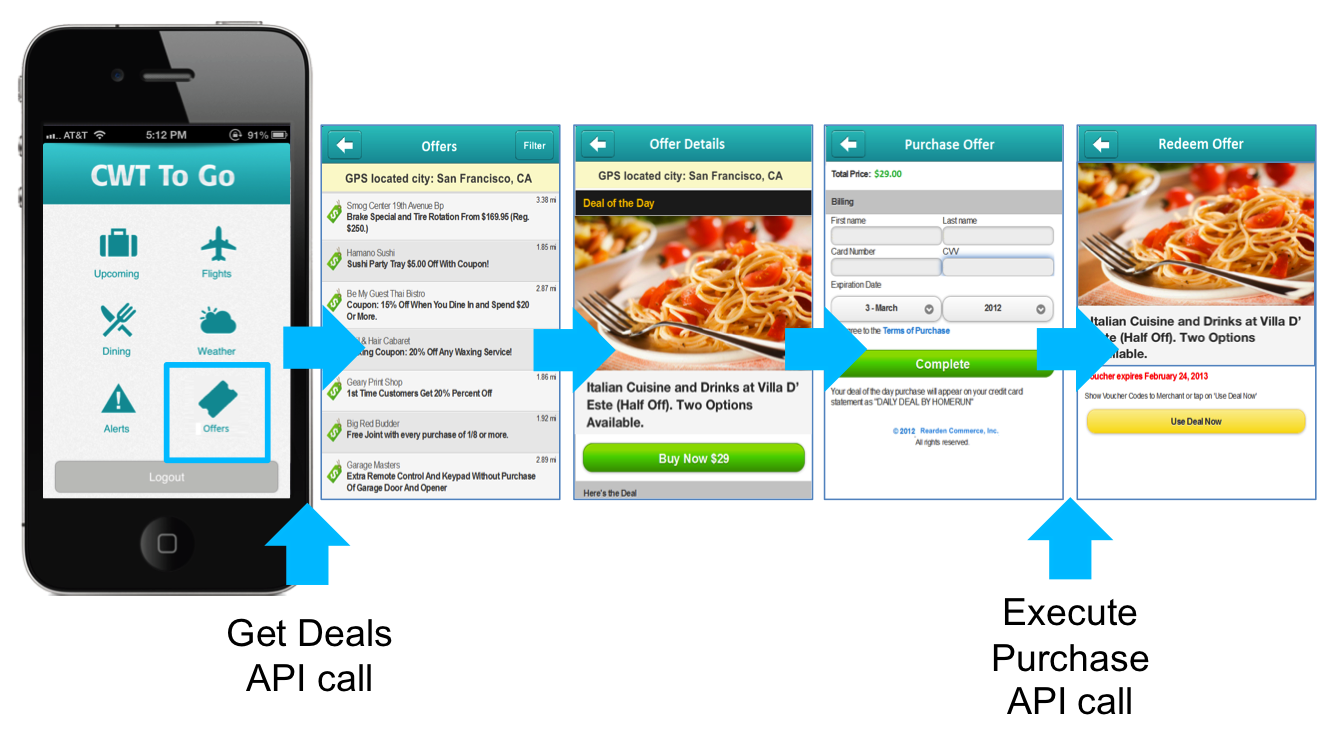
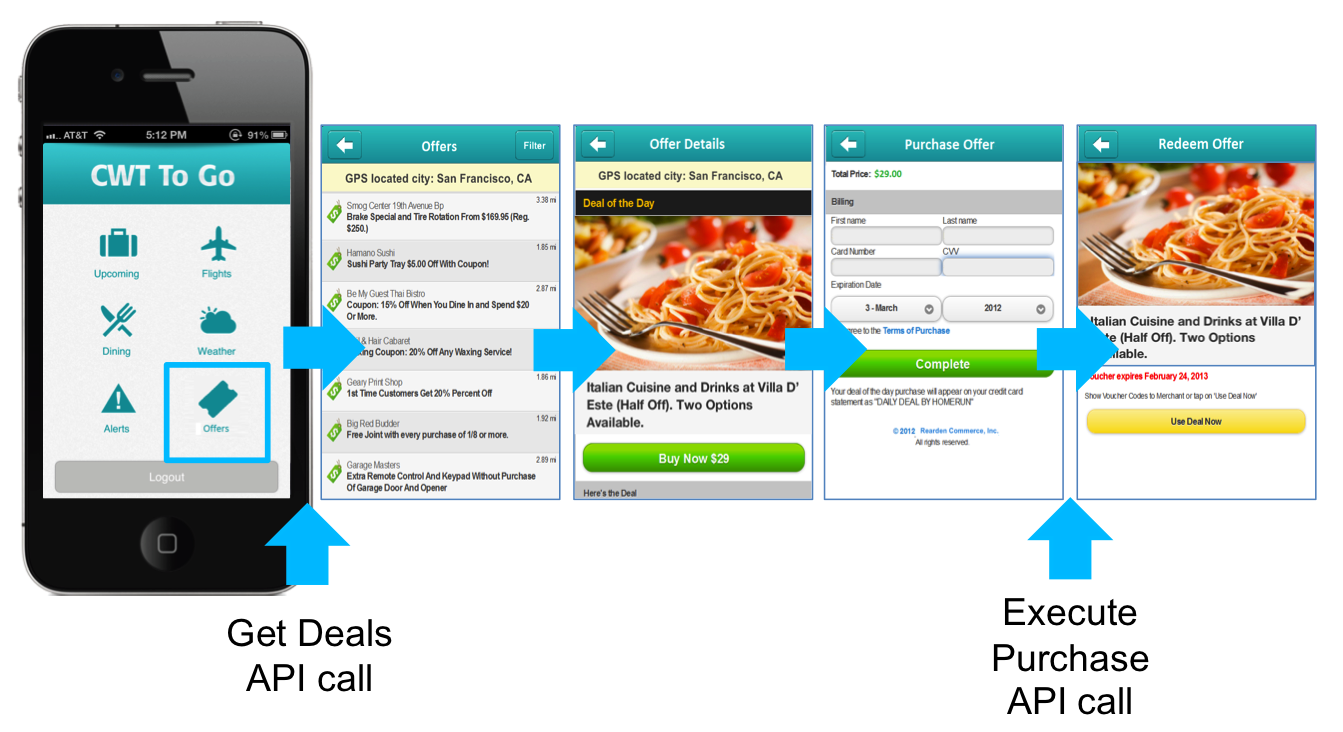
fixed mobile example png to have white space on the right of the image

diff --git a/content/index.md b/content/index.md
@@ -22,7 +22,7 @@ If you have any problems or requests please contact [support](mailto:support@off
 
 ## Example Implementation
 
-Using just two simple API calls you can provide offers to your users. Below is a brief description of how that would work with an existing mobile application:
+Using just two simple API calls (get deals and execute purchase) you can provide offers to your users. Below is a brief description of how that would work with an existing mobile application:
 
 <img src="/images/mobile_use_example.png" alt="Mobile Example Image" > 
 
